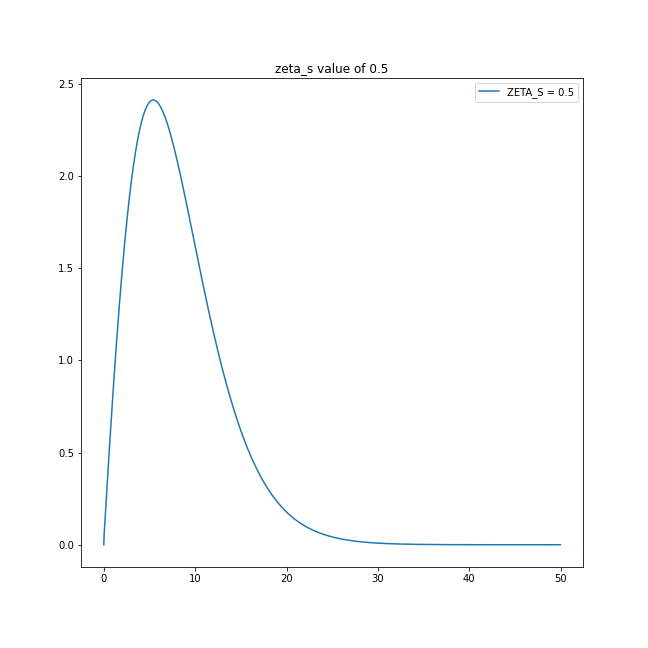
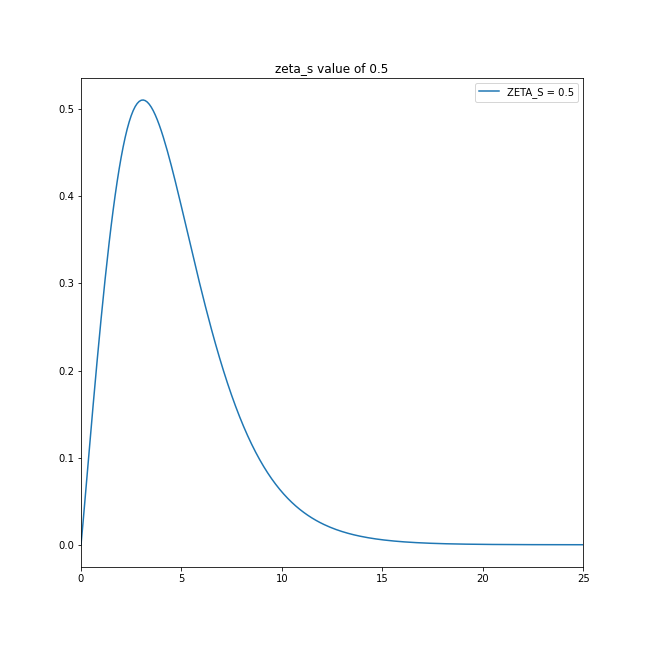
Correct number, creating figures

diff --git a/scripts/X/attempt_2.py b/scripts/X/attempt_2.py
@@ -12,10 +12,10 @@ import matplotlib.pyplot as plt
 # Global Variables-------------------------------------------------------
 
 # User input
-n = 800  # Interval Steps
-ZETA_MAX = 120
-ZETA_Sn = [0.01]
-loops = 20
+n = 500  # Interval Steps
+ZETA_MAX = 50
+ZETA_Sn = [0.01, 0.1, 0.2, 0.5, 1]
+loops = 25
 # -----------------------------------------------------------------------
 # Global variables afterwards
 DEL = (ZETA_MAX)/(n + 1)  # Spacing of intervals
@@ -47,7 +47,7 @@ def metric(A, B):
     return (goo, grr)
 
 
-def matrix_const(A, B, H, ZETA_S):
+def matrix_const(A, B, ZETA, ZETA_S):
     """
     Creates arrays for matrix values
 
@@ -69,17 +69,13 @@ def matrix_const(A, B, H, ZETA_S):
     for i in range(N_max):
         if i > 0 and i < N_max-1:
             if i > 0:
-                D[i] = -np.sqrt(goo[i]/grr[i]) * \
-                                np.sqrt(goo[i-1]/grr[i-1])*(1/DEL**2)
+                D[i] = -np.sqrt(goo[i]/grr[i]) * np.sqrt(goo[i-1]/grr[i-1])*(1/DEL**2)
             if i < N_max-1:
-                E[i] = -np.sqrt(goo[i]/grr[i]) * \
-                                np.sqrt(goo[i+1]/grr[i+1])*(1/DEL**2)
-            H_ratio = (ZETA[i+1]*np.sqrt(np.sqrt(goo[i+1]/grr[i+1])) - 2*ZETA[i]*np.sqrt(
-                np.sqrt(goo[i]/grr[i])) + ZETA[i-1]*np.sqrt(np.sqrt(goo[i-1]/grr[i-1])))/(H[i]*DEL**2)
+                E[i] = -np.sqrt(goo[i]/grr[i]) * np.sqrt(goo[i+1]/grr[i+1])*(1/DEL**2)
+            H_ratio = (ZETA[i+1]*np.sqrt(np.sqrt(goo[i+1]/grr[i+1])) - 2*ZETA[i]*np.sqrt(np.sqrt(goo[i]/grr[i])) + ZETA[i-1]*np.sqrt(np.sqrt(goo[i-1]/grr[i-1])))/(ZETA[i]*np.sqrt(np.sqrt(goo[i]/grr[i]))*DEL**2)
         else:
             H_ratio = 0
-        C[i] = (goo[i]/grr[i])*H_ratio + (4/ZETA_S) * \
-                (np.exp(A[i])*np.sinh(A[i])) + (2/(DEL**2))*(goo[i]/grr[i])
+        C[i] = (goo[i]/grr[i])*H_ratio + (4/ZETA_S) * (np.exp(A[i])*np.sinh(A[i])) + (2/(DEL**2))*(goo[i]/grr[i])
     return C, D, E
 
 
@@ -104,7 +100,7 @@ def matrix_build(C, D, E):
     return matrix
 
 
-def finite_differences(A, B, H, ZETA_S):
+def finite_differences(A, B, ZETA_S):
     """
     Uses a finite difference approach to calculate our U_bar array and our epsilon value
 
@@ -133,8 +129,6 @@ def finite_differences(A, B, H, ZETA_S):
 
     U_bar = np.sqrt(grr/goo)*u_tilde
 
-    print("Norm: ", np.trapz(U_bar, ZETA))
-
     return U_bar, epsilon
 
 
@@ -153,12 +147,11 @@ def radial_func(U, goo, grr, ZETA):
 
     R = np.zeros_like(U)
     use = np.where(ZETA != 0)
-    R[use] = np.sqrt(np.sqrt(goo[use])/grr[use]) * U[use] / (ZETA[use])
-
+    R[use] = np.sqrt(np.sqrt(goo[use]/grr[use])) * U[use] / (ZETA[use])
     return R
 
 
-def der_of_R(R):
+def der_of_R(U_bar, H_tilde, goo, grr):
     """
     Derivative of R function
 
@@ -168,12 +161,13 @@ def der_of_R(R):
         dR: 1D np array
     """
 
-    dR = np.zeros(len(R))
-    for i in range(len(R)):
+    dR = np.zeros_like(U_bar)
+    U_tilde = np.sqrt(goo/grr)*U_bar
+    for i in range(len(dR)):
         if i == N_max - 1 or i == 0:
             dR[i] = 0
             continue
-        dR[i] = (R[i + 1] - R[i - 1]) / (2 * DEL)
+        dR[i] = (U_tilde[i+1] - U_tilde[i-1])/(2*DEL*H_tilde[i]) - U_tilde[i]*(H_tilde[i+1]-H_tilde[i-1])/(2*DEL*H_tilde[i]**2)
     return dR
 
 
@@ -200,9 +194,8 @@ def values_for_RK(A, B, R, dR, n, epsilon, ZETA_S):
         dA = 0
         dB = 0
         return dA, dB
-    dA = ((1/(2*ZETA)*(np.exp(2*B)-1)) - (ZETA_S*ZETA/4)*np.exp(2*B)*(R**2) + common)
-    dB = (-(1/(2*ZETA)*(np.exp(2*B)-1)) + (ZETA_S*ZETA/4)*np.exp(2*B)*(R**2) + common)
-
+    dA = (np.exp(2*B) - 1)/(2*ZETA) - ((ZETA_S*ZETA)/4)*np.exp(2*B)*(R**2) + common
+    dB = -(np.exp(2*B) - 1)/(2*ZETA) + ((ZETA_S*ZETA)/4)*np.exp(2*B)*(R**2) + common
     return dA, dB
 
 def Runge_Kutta(U_bar, epsilon, A, B, ZETA_S):
@@ -221,13 +214,14 @@ def Runge_Kutta(U_bar, epsilon, A, B, ZETA_S):
     """
 
     goo, grr=metric(A, B)
+    H_tilde = ZETA*np.sqrt(np.sqrt(goo/grr))
     R_array=radial_func(U_bar, goo, grr, ZETA)
-    dR_array=der_of_R(R_array)
+    dR_array=der_of_R(U_bar, H_tilde, goo, grr)
     dmu_array=np.sqrt(grr/goo)*(np.sqrt(goo/grr)*U_bar)**2
     mu_tilde_end=0
     for n in range(N_max-1):
         mu_tilde_end += DEL*(dmu_array[n]+dmu_array[n+1])/2
-    print(mu_tilde_end)
+    
     A[N_max-1]=np.log(1-ZETA_S*mu_tilde_end/ZETA[N_max-1])/2
     B[N_max-1]=-np.log(1-ZETA_S*mu_tilde_end/ZETA[N_max-1])/2
     for i in range(N_max-1, 0, -1):
@@ -253,36 +247,72 @@ def gr_initialize_metric(ZETA_S):
     h_tilde=ZETA*np.sqrt(np.sqrt(g_00_array/g_rr_array))
 
     return a_array, b_array, h_tilde
+    
 
 # Main Function------------------------------------------------------------
 
 def main():
     epsilons=np.zeros_like(ZETA_Sn)
     U_Bars_matrix=np.zeros((len(ZETA), len(ZETA_Sn)))
+    #goal = [-0.1631, -0.1657, -0.1688, -0.1795, -0.2045]
+    color = ['red', 'orange', 'green', 'blue', 'violet']
+    a_initial = np.zeros_like(ZETA_Sn)
+    b_initial = np.zeros_like(ZETA_Sn)
+    figure1 = plt.figure()
+    ax1 = figure1.add_subplot(111)
+    ax1_sub1 = figure1.add_subplot(211)
+    ax1_sub2 = figure1.add_subplot(212)
     for j in range(len(ZETA_Sn)):
         ZETA_S=ZETA_Sn[j]
-        A_array, B_array, H_tilde=gr_initialize_metric(ZETA_S)
+        A_array, B_array, H_tilde = gr_initialize_metric(ZETA_S)
         for i in range(loops):
-            U_bar, epsilon=finite_differences(A_array, B_array, H_tilde, ZETA_S)
+            U_bar, epsilon = finite_differences(A_array, B_array, ZETA_S)
             A_array, B_array = Runge_Kutta(U_bar, epsilon, A_array, B_array, ZETA_S)
-            print(ZETA_S)
-            print(epsilon)
         U_Bars_matrix[:, j]=U_bar
         epsilons[j]=epsilon
-        # ax = plt.gca()
-        # ax.set_xlim([0, 100])
-        plt.figure(figsize=(9, 9))
-        plt.plot(ZETA, A_array, label="A")
-        plt.plot(ZETA, B_array, label="B")
-        plt.legend()
-        plt.savefig(f'A_and_B_of_{ZETA_Sn[j]}.png')
+        ax1_sub1.plot(ZETA, np.exp(2*A_array), label=f'{ZETA_S}', color = color[j])
+        ax1_sub2.plot(ZETA, np.exp(2*B_array), label=f'{ZETA_S}', color = color[j])
+        a_initial[j] = A_array[0]
+        b_initial[j] = B_array[0]
+    figure1.suptitle('g_00 and g_rr')
+    ax1.set_xlabel('ZETA')
+    
+    ax1.spines['top'].set_color('none')
+    ax1.spines['bottom'].set_color('none')
+    ax1.spines['left'].set_color('none')
+    ax1.spines['right'].set_color('none')
+    ax1.tick_params(labelcolor='w', top=False, bottom=False, left=False, right=False)
+    
+    ax1_sub1.set_xlim([0, 20])
+    ax1_sub1.set_ylim([0.5, 1.25])
+    ax1_sub2.set_xlim([0, 20])
+    ax1_sub2.set_ylim([0.5, 1.25])
+    ax1_sub1.set_ylabel('g_00')
+    ax1_sub2.set_ylabel('g_RR')
+    figure1.tight_layout()
+    plt.legend(bbox_to_anchor=(1.05, 1), loc='upper left', borderaxespad=0)
+    plt.show()
+    plt.savefig('g_00_and_g_RR.png')
 
     plt.figure(figsize=(9, 9))
     for i in range(len(ZETA_Sn)):
-        plt.plot(ZETA, abs(U_Bars_matrix[:, i]),
-                 label=f'ZETA_S = {ZETA_Sn[i]}')
-    plt.title(f'zeta_s value of {ZETA_Sn[j]}')
+        plt.plot(ZETA, abs(U_Bars_matrix[:, i]), label=f'ZETA_S = {ZETA_Sn[i]}')
+    plt.title('U_Bar for different ZETA_S')
     plt.legend()
-    plt.savefig(f'U_bars_of_{ZETA_Sn[j]}.png')
+    ax = plt.gca()
+    ax.set_xlim([0, 25])
+    plt.show()
+    plt.savefig('U_bars.png')
+    
+    plt.figure(figsize=(9,9))
+    plt.plot(ZETA_Sn, a_initial, label='A')
+    plt.plot(ZETA_Sn, b_initial, label='B')
+    plt.legend()
+    plt.title('Initial values of A and B w.r.t ZETA_S')
+    plt.show()
+    plt.savefig('Initial_A_and_B')
+    
+    print(epsilons)
+    #print("Percent errors: ", 100*(goal-epsilons)/goal)
 
 _=main()

diff --git a/scripts/X/changing_n.py b/scripts/X/changing_n.py
@@ -1,0 +1,19 @@
+#!/usr/bin/env python3
+# -*- coding: utf-8 -*-
+"""
+Created on Mon Jun 17 10:52:10 2024
+
+@author: xaviblast123
+"""
+
+import numpy as np
+import matplotlib.pyplot as plt
+from attempt_2 import function_of_main
+
+n = np.linspace(100, 1500, 15)
+a_array = np.zeros_like(n)
+b_array = np.zeros_like(n)
+for i in range(len(n)):
+    a_array[i], b_array[i] = function_of_main(n, 100, 1, 25)
+    
+print(a_array, b_array)
